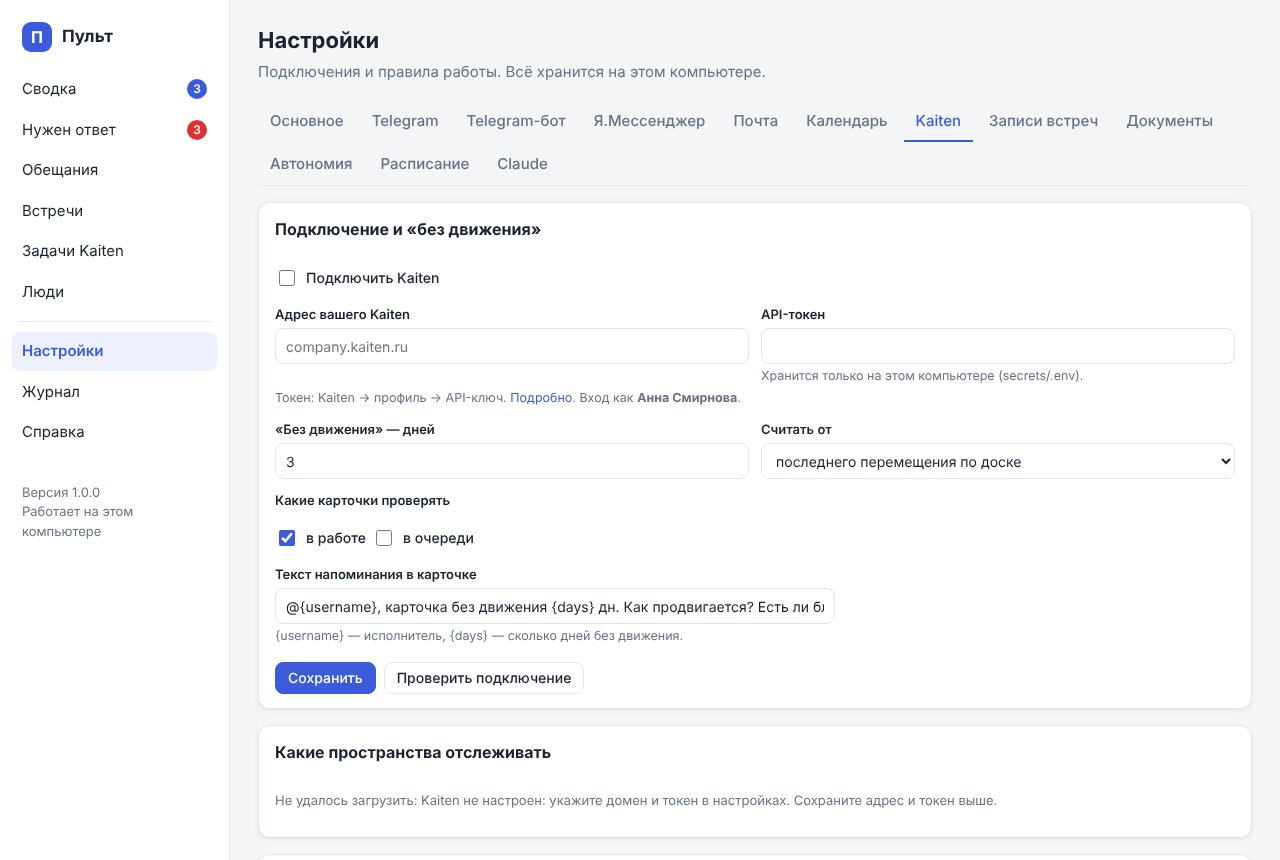
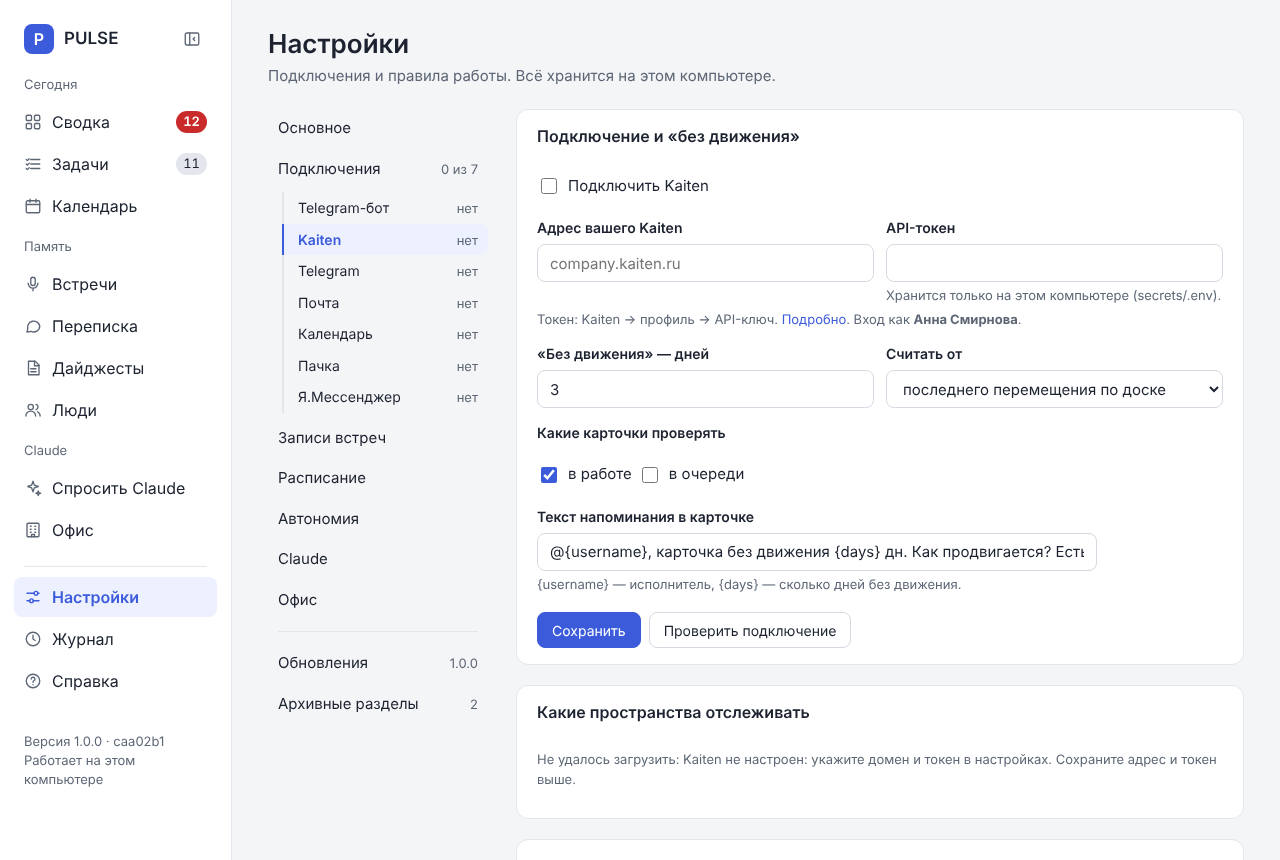
Дизайн 2.0, шаг 12: тёмная тема, телефон, приёмка, история изменений
Прошёл все экраны в тёмной теме, на 1280px и на телефоне: горизонтальной
прокрутки нет (переключатели видов на телефоне листаются вбок). По
чек-листу приёмки: зелёных кнопок не осталось («Да» в предложениях и
«Принять» — основные), у всех полей времени lang="ru", мелкий текст
календаря и уведомлений — не меньше 12px.

Окно «У PULSE новый дизайн» теперь говорит, что куда переехало: ответы — в
ленту Сводки, чаты — в «Переписку», Kaiten — во вкладку «Задач»,
Документы и База знаний — в архив. Запись в историю изменений;
скриншоты в README и справке пересняты в новом дизайне.

Claude-Session: https://claude.ai/code/session_012TtepoiuT4bpZH8BT6hsDJ

diff --git a/opsdash/web/static/style.css b/opsdash/web/static/style.css
@@ -425,7 +425,7 @@ button.chip:hover { border-color: var(--accent); color: var(--text); }
 /* Claude думает, что задача выполнена: доводы и кнопки «Да, закрыть / Нет» в окне задачи */
 .prop-links { display: flex; flex-wrap: wrap; gap: 6px; margin-top: 6px; }
 .btn.toggle.on { border-color: var(--accent); background: var(--accent-soft); color: var(--accent); }
-.btn .badge { height: 18px; min-width: 18px; margin-left: 2px; font-size: 11px; }
+.btn .badge { height: 18px; min-width: 18px; margin-left: 2px; font-size: 12px; }
 /* переход по ссылке на задачу — карточка ненадолго подсвечивается */
 .flash { animation: flash 1.8s ease-out 1; }
 @keyframes flash { 0%, 45% { box-shadow: 0 0 0 4px color-mix(in srgb, var(--accent) 50%, transparent); } }
@@ -577,16 +577,16 @@ body.resizing { cursor: col-resize; user-select: none; }
 .wk-head, .wk-allday, .wk-body { display: grid; grid-template-columns: var(--gutter) repeat(7, minmax(0, 1fr)); }
 .wk-head { position: sticky; top: 0; z-index: 3; background: var(--panel); border-bottom: 1px solid var(--line); border-radius: var(--radius) var(--radius) 0 0; }
 .wk-day-h { text-align: center; padding: 10px 0 8px; }
-.wk-dow { font-size: 11px; font-weight: 600; color: var(--muted); letter-spacing: .04em; }
+.wk-dow { font-size: 12px; font-weight: 600; color: var(--muted); letter-spacing: .04em; }
 .wk-num { font-size: 24px; line-height: 40px; width: 40px; height: 40px; margin: 2px auto 0; border-radius: 50%; }
 .wk-day-h.today .wk-dow { color: var(--accent); }
 .wk-day-h.today .wk-num { background: var(--accent); color: #fff; }
 .wk-allday { grid-auto-rows: 22px; row-gap: 2px; padding: 4px 0; border-bottom: 1px solid var(--line); }
-.wk-allday-label { font-size: 11px; color: var(--muted); text-align: right; padding-right: 8px; align-self: center; }
+.wk-allday-label { font-size: 12px; color: var(--muted); text-align: right; padding-right: 8px; align-self: center; }
 .wk-body { position: relative; padding-top: 8px; }
 .wk-hours { position: relative; }
 .wk-hour { height: var(--hour); position: relative; }
-.wk-hour span { position: absolute; top: -8px; right: 8px; font-size: 11px; color: var(--muted); }
+.wk-hour span { position: absolute; top: -8px; right: 8px; font-size: 12px; color: var(--muted); }
 .wk-col { position: relative; border-left: 1px solid var(--line); cursor: copy;
   background-image: repeating-linear-gradient(to bottom, var(--line) 0 1px, transparent 1px var(--hour)); }
 .wk-col.today { background-color: color-mix(in srgb, var(--accent) 4%, transparent); }
@@ -616,7 +616,7 @@ body.resizing { cursor: col-resize; user-select: none; }
 .day-now { position: absolute; left: 0; right: 0; height: 0; border-top: 2px dashed var(--accent); z-index: 3; pointer-events: none; }
 .day-now::before { content: ""; position: absolute; left: -6px; top: -6px; width: 10px; height: 10px; border-radius: 50%; background: var(--accent); }
 .day-now span { position: absolute; right: calc(100% + 7px); top: -10px; padding: 0 3px; border-radius: 4px; background: var(--panel);
-  color: var(--accent); font-size: 11px; font-weight: 600; line-height: 18px; font-variant-numeric: tabular-nums; }
+  color: var(--accent); font-size: 12px; font-weight: 600; line-height: 18px; font-variant-numeric: tabular-nums; }
 .ev-pop { position: fixed; z-index: 20; width: 340px; max-width: calc(100vw - 24px); padding: 14px 16px; display: grid; gap: 6px;
   background: var(--panel); border: 1px solid var(--line); border-radius: var(--radius); box-shadow: 0 8px 28px rgba(0, 0, 0, .28); }
 .ev-pop[hidden] { display: none; }
@@ -680,7 +680,7 @@ button.chip.ok { cursor: pointer; }
 .usage-days { display: flex; align-items: flex-end; gap: 4px; height: 90px; margin: 4px 0 12px; }
 .usage-day { flex: 1; height: 100%; display: flex; flex-direction: column; justify-content: flex-end; align-items: center; gap: 3px; }
 .usage-bar { width: 100%; max-width: 28px; background: var(--accent); border-radius: 3px 3px 0 0; opacity: .8; }
-.usage-day span { font-size: 10px; color: var(--muted); }
+.usage-day span { font-size: 12px; color: var(--muted); }
 @media (max-width: 760px) { .usage-tiles { grid-template-columns: repeat(2, minmax(0, 1fr)); } }
 
 /* --- угол экрана: что PULSE делает сейчас и что сделал (opsdash.notices) --- */
@@ -711,7 +711,7 @@ button.chip.ok { cursor: pointer; }
 .notice-t { display: block; font-weight: 600; color: var(--text); line-height: 1.35; }
 a.notice-t:hover { color: var(--accent); text-decoration: none; }
 .notice-x { margin-top: 2px; font-size: 12px; color: var(--muted); line-height: 1.4; overflow-wrap: anywhere; }
-.notice-time { margin-top: 3px; font-size: 11px; color: var(--muted); }
+.notice-time { margin-top: 3px; font-size: 12px; color: var(--muted); }
 .notice-close { border: 0; background: none; color: var(--muted); cursor: pointer; padding: 0 2px; font-size: 12px; line-height: 1.4; }
 .notice-close:hover { color: var(--text); }
 .notice-head { display: flex; justify-content: flex-end; }  /* «Скрыть все» — справа над крестиком верхнего */
@@ -946,7 +946,7 @@ a.notice-now-t:hover { color: var(--accent); text-decoration: none; }
 .dlg-item-text { flex: 1; overflow-wrap: anywhere; }
 
 /* окно «У PULSE новый дизайн» (один раз после обновления): картинка с пульсом и конфетти, цвета — из темы */
-.dlg-hello { width: min(440px, calc(100vw - 32px)); }
+.dlg-hello { width: min(480px, calc(100vw - 32px)); }
 .hello-box { padding: 26px 28px 24px; display: grid; justify-items: center; gap: 10px; text-align: center; outline: none; }
 .hello-box h2 { font-size: 21px; line-height: 1.3; }
 .hello-box p { margin: 0; }
@@ -1380,7 +1380,7 @@ a.mrow-title:hover { color: var(--accent); text-decoration: none; }
 .wk-now { background: var(--accent); }
 .wk-now::before { background: var(--accent); }
 .wk-now span { position: absolute; right: calc(100% + 6px); top: -9px; padding: 0 3px; border-radius: 4px; background: var(--panel);
-  color: var(--accent); font-size: 11px; font-weight: 600; line-height: 18px; font-variant-numeric: tabular-nums; }
+  color: var(--accent); font-size: 12px; font-weight: 600; line-height: 18px; font-variant-numeric: tabular-nums; }
 .wk-now-all { position: absolute; left: var(--gutter); right: 0; height: 0; border-top: 1px solid color-mix(in srgb, var(--accent) 35%, transparent); z-index: 1; pointer-events: none; }
 .ev-t { white-space: nowrap; overflow: hidden; text-overflow: ellipsis; }
 .ev.past { opacity: .6; }
@@ -1563,3 +1563,8 @@ a.mrow-title:hover { color: var(--accent); text-decoration: none; }
 .copy-code { position: absolute; top: 6px; right: 6px; }
 .help-hit { margin: 0 0 10px; font-size: 15px; }
 .help-page .subnav-sub > a { white-space: normal; }
+@media (max-width: 760px) {
+  .seg { max-width: 100%; overflow-x: auto; scrollbar-width: none; }
+  .tb-search.wide { width: 100% !important; }
+}
+.hello-list { margin: 0; padding-left: 20px; text-align: left; font-size: 14px; color: var(--muted); display: grid; gap: 4px; }

diff --git a/opsdash/web/templates/settings.html b/opsdash/web/templates/settings.html
@@ -216,8 +216,8 @@
     {{ enabled_box('telegram_bot', 'Бот включён') }}
     <label>Токен бота от @BotFather</label>{{ secret_input('token', 'TELEGRAM_BOT_TOKEN', '123456:ABC-DEF…') }}
     <div class="form-row">
-      <div><label>Тихие часы с</label><input type="time" name="quiet_start" value="{{ settings.telegram_bot.quiet_hours.start | hhmm }}"></div>
-      <div><label>до</label><input type="time" name="quiet_end" value="{{ settings.telegram_bot.quiet_hours.end | hhmm }}"></div>
+      <div><label>Тихие часы с</label><input type="time" lang="ru" name="quiet_start" value="{{ settings.telegram_bot.quiet_hours.start | hhmm }}"></div>
+      <div><label>до</label><input type="time" lang="ru" name="quiet_end" value="{{ settings.telegram_bot.quiet_hours.end | hhmm }}"></div>
     </div>
     <div class="hint">В тихие часы приходят только срочные сообщения, остальное — утром.</div>
     <div class="form-actions"><button class="btn primary">Сохранить</button> {{ check_btn('bot') }}</div>
@@ -520,12 +520,12 @@
       <div><label>Обновлять календарь, каждые … мин</label><input type="number" name="calendar_minutes" value="{{ settings.schedule.calendar_minutes }}" min="10"></div>
     </div>
     <div class="form-row">
-      <div><label>Утренний дайджест</label><input type="time" name="digest_morning" value="{{ settings.schedule.digest_morning | hhmm }}"></div>
-      <div><label>Вечерний дайджест</label><input type="time" name="digest_evening" value="{{ settings.schedule.digest_evening | hhmm }}"></div>
-      <div><label>Напоминание о задачах без движения</label><input type="time" name="stale_check" value="{{ settings.schedule.stale_check | hhmm }}"></div>
-      <div><label>База знаний: обзор недели, по пятницам</label><input type="time" name="anthology_weekly" value="{{ settings.schedule.anthology_weekly | hhmm }}"><div class="hint">Пусто — не делать.</div></div>
-      <div><label>Сводка «О компании» для Claude, по понедельникам</label><input type="time" name="context_weekly" value="{{ settings.schedule.context_weekly | hhmm }}"><div class="hint">Пусто — не обновлять.</div></div>
-      <div><label>Сборка проектов, по понедельникам</label><input type="time" name="projects_weekly" value="{{ settings.schedule.projects_weekly | hhmm }}"><div class="hint">Claude предложит проекты, связи «ждёт» и объединение дублей. Пусто — только по кнопке в «Задачи → Проекты».</div></div>
+      <div><label>Утренний дайджест</label><input type="time" lang="ru" name="digest_morning" value="{{ settings.schedule.digest_morning | hhmm }}"></div>
+      <div><label>Вечерний дайджест</label><input type="time" lang="ru" name="digest_evening" value="{{ settings.schedule.digest_evening | hhmm }}"></div>
+      <div><label>Напоминание о задачах без движения</label><input type="time" lang="ru" name="stale_check" value="{{ settings.schedule.stale_check | hhmm }}"></div>
+      <div><label>База знаний: обзор недели, по пятницам</label><input type="time" lang="ru" name="anthology_weekly" value="{{ settings.schedule.anthology_weekly | hhmm }}"><div class="hint">Пусто — не делать.</div></div>
+      <div><label>Сводка «О компании» для Claude, по понедельникам</label><input type="time" lang="ru" name="context_weekly" value="{{ settings.schedule.context_weekly | hhmm }}"><div class="hint">Пусто — не обновлять.</div></div>
+      <div><label>Сборка проектов, по понедельникам</label><input type="time" lang="ru" name="projects_weekly" value="{{ settings.schedule.projects_weekly | hhmm }}"><div class="hint">Claude предложит проекты, связи «ждёт» и объединение дублей. Пусто — только по кнопке в «Задачи → Проекты».</div></div>
     </div>
     <div class="hint">Пустое время — не отправлять. Если компьютер был выключен, дайджест придёт после включения (в пределах 4 часов).</div>
     <label class="check"><input type="checkbox" name="meeting_processed" {{ 'checked' if settings.notifications.meeting_processed }}> Присылать итог каждой разобранной встречи</label>
@@ -544,8 +544,8 @@
     </div>
     <div class="form-row">
       <div><label>Итоги недели: день</label><select name="weekly_day">{% for d in range(1, 8) %}<option value="{{ d }}" {{ 'selected' if settings.schedule.weekly_day == d }}>{{ ['понедельник', 'вторник', 'среда', 'четверг', 'пятница', 'суббота', 'воскресенье'][d - 1] }}</option>{% endfor %}</select></div>
-      <div><label>Итоги недели: время</label><input type="time" name="weekly_time" value="{{ settings.schedule.weekly_time | hhmm }}"><div class="hint">Компьютер был выключен — придут при следующем запуске. Пусто — не делать.</div></div>
-      <div><label>Сводка рабочих групп Telegram</label><input type="time" name="groups_digest" value="{{ settings.schedule.groups_digest | hhmm }}"><div class="hint">По рабочим дням. Пусто — не делать.</div></div>
+      <div><label>Итоги недели: время</label><input type="time" lang="ru" name="weekly_time" value="{{ settings.schedule.weekly_time | hhmm }}"><div class="hint">Компьютер был выключен — придут при следующем запуске. Пусто — не делать.</div></div>
+      <div><label>Сводка рабочих групп Telegram</label><input type="time" lang="ru" name="groups_digest" value="{{ settings.schedule.groups_digest | hhmm }}"><div class="hint">По рабочим дням. Пусто — не делать.</div></div>
     </div>
     <label class="check"><input type="checkbox" name="groups_to_telegram" {{ 'checked' if settings.notifications.groups_digest }}> Присылать сводку групп в Telegram (в разделе «Дайджесты» она есть всегда)</label>
     <label>Текст напоминания коллеге</label>

diff --git a/opsdash/web/templates/_macros.html b/opsdash/web/templates/_macros.html
@@ -10,7 +10,7 @@
       {% if refs %}<div class="prop-links">{% for label, url in refs %}<a class="btn sm ghost" href="{{ url }}"{% if url.startswith('http') %} target="_blank" rel="noopener"{% endif %}>{{ label }} {{ '↗' if url.startswith('http') else '→' }}</a>{% endfor %}</div>{% endif %}
     </div>
     <div class="actions">
-      <form class="inline" method="post" action="/proposals/{{ p.id }}/approve"><button class="btn sm ok" title="Выполнить">Да</button></form>
+      <form class="inline" method="post" action="/proposals/{{ p.id }}/approve"><button class="btn sm primary" title="Выполнить">Да</button></form>
       <form class="inline" method="post" action="/proposals/{{ p.id }}/reject"><button class="btn sm" title="Отклонить">Нет</button></form>
     </div>
   </div>
@@ -35,7 +35,7 @@
     <div><b>Похоже, вы уже ответили.</b> {{ h.reason }}</div>
     {% if h.payload.quote %}<div class="dlg-quote">«{{ h.payload.quote }}»</div>{% endif %}
     <div class="actions">
-      <form class="inline" method="post" action="/proposals/{{ h.id }}/approve"><button class="btn sm ok">Да, убрать</button></form>
+      <form class="inline" method="post" action="/proposals/{{ h.id }}/approve"><button class="btn sm">Да, убрать</button></form>
       <form class="inline" method="post" action="/proposals/{{ h.id }}/reject"><button class="btn sm">Нет, ещё не ответила</button></form>
       {% for label, url in proposal_links(h) if label != 'Нужен ответ' %}<a class="btn sm ghost" href="{{ url }}"{% if url.startswith('http') %} target="_blank" rel="noopener"{% endif %}>{{ label }} {{ '↗' if url.startswith('http') else '→' }}</a>{% endfor %}
     </div>
@@ -235,7 +235,7 @@
     <div><b>Claude предлагает:</b> {{ h.title }}</div>
     {% if h.reason %}<div class="small muted">{{ h.reason }}</div>{% endif %}
     <div class="actions">
-      <form class="inline" method="post" action="/proposals/{{ h.id }}/approve"><button class="btn sm ok">Да, ждёт</button></form>
+      <form class="inline" method="post" action="/proposals/{{ h.id }}/approve"><button class="btn sm primary">Да, ждёт</button></form>
       <form class="inline" method="post" action="/proposals/{{ h.id }}/reject"><button class="btn sm">Нет</button></form>
     </div>
   </div>

diff --git a/opsdash/web/templates/_design_intro.html b/opsdash/web/templates/_design_intro.html
@@ -27,7 +27,12 @@
       <g transform="translate(144 141)"><circle class="cf c1" style="--d:.5s" r="2.5"/></g>
     </svg>
     <h2 id="hello-title">У PULSE новый дизайн</h2>
-    <p>Разделы, задачи и данные — на своих местах, поменялся внешний вид.</p>
+    <p>Всё, что ждёт вашего решения, — теперь одной лентой на Сводке. Меню стало короче:</p>
+    <ul class="hello-list">
+      <li>«Нужен ответ» — в ленте Сводки, чаты — в «Переписке»</li>
+      <li>«Задачи Kaiten» — вкладка в «Задачах»</li>
+      <li>Документы и База знаний — в архиве; вернуть — Настройки → Архивные разделы</li>
+    </ul>
     <p class="hello-note"><i>Если что-то не понравилось или есть идея, как сделать лучше, — просто напишите мне.</i></p>
     <button class="btn primary hello-ok" autofocus>Круто</button>
   </form>

diff --git a/opsdash/web/templates/kb.html b/opsdash/web/templates/kb.html
@@ -25,7 +25,7 @@
     </span>
     <span class="actions">
       {% if r.status == 'proposed' %}
-      <form class="inline" method="post" action="/kb/{{ r.id }}"><input type="hidden" name="status" value="accepted"><button class="btn sm ok">Принять</button></form>
+      <form class="inline" method="post" action="/kb/{{ r.id }}"><input type="hidden" name="status" value="accepted"><button class="btn sm primary">Принять</button></form>
       <form class="inline" method="post" action="/kb/{{ r.id }}"><input type="hidden" name="status" value="rejected"><button class="btn sm ghost">Отклонить</button></form>
       {% elif r.status == 'accepted' %}
       <form class="inline" method="post" action="/kb/{{ r.id }}" data-confirm="Отметить как устаревшее? Запись останется в истории, но Claude не будет на неё опираться."><input type="hidden" name="status" value="outdated"><button class="btn sm ghost" title="Решение пересмотрели или оно больше не действует">Устарело</button></form>

diff --git a/docs/06-история-изменений.md b/docs/06-история-изменений.md
@@ -3,6 +3,33 @@
 Что менялось в PULSE — новое сверху. Поставить новую версию: Настройки → Основное →
 «Обновления PULSE» → «Обновить».
 
+## 02.11.2026 — PULSE 2.0: новый дизайн
+
+- **Спокойнее и короче.** Тот же индиго-акцент и шрифт, но меньше жирного, меньше рамок и цветных плашек.
+  Синий — только то, на что можно нажать; красный — просрочка; оранжевый — «скоро» и «без движения»;
+  зелёный — «сделано». После обновления PULSE один раз покажет окно «У PULSE новый дизайн».
+- **Меню сгруппировано:** «Сегодня» (Сводка, Задачи, Календарь), «Память» (Встречи, Переписка, Дайджесты,
+  Люди), «Claude» (Спросить Claude, Офис). На телефоне — нижняя панель «Сводка · Задачи · Календарь · Ещё».
+- **Сводка — одна лента «Нужно от вас»:** подтвердить, ответить, напомнить — одним списком, срочное сверху,
+  с фильтрами по типу. У ответа — черновик и «Копировать», у напоминания — готовый текст. Справа — день часовой
+  сеткой и «Пока вас не было». Плитки с цифрами, «Мои задачи», «Мне должны» и «Источники» со Сводки ушли:
+  источники и состояние Claude — в Настройки → Подключения.
+- **«Нужен ответ» → «Переписка».** Ответы — в ленте Сводки, а «Переписка» показывает сами чаты: слева список,
+  справа выбранный чат; то, что PULSE вынес в Сводку, подсвечено. Старые ссылки из бота ведут туда же.
+- **Задачи:** карточка на доске — две строки (название и «человек · срок» словами: «завтра», «просрочено 2 дня»),
+  клик раскрывает её на месте. Окно задачи — со статусом списком (Новая / В работе / Ждёт / Готово), связями
+  «ждёт» и «её ждёт» и меню «…» для редких действий. Колонка «Готово» — по кнопке под доской. Все фильтры —
+  в «Фильтр», активные видны под заголовком с «× снять». «Задачи Kaiten» стали вкладкой «Kaiten» в «Задачах».
+- **Документы и База знаний — в архиве:** их нет в меню, их задания не запускаются, данные не удалены.
+  Вернуть — Настройки → Архивные разделы → «Включить».
+- **Встречи** — лентой по дням, со встречами календаря без записи; на странице встречи — вкладки «Разбор ·
+  Расшифровка · Запись» и справа «Ждут вашего «да»».
+- **Календарь** — неделя, новый вид «Месяц» и список; встреча открывается карточкой: участники, запись, задачи.
+- **Люди** — таблица «кто кому должен», карточка человека — окном. **Дайджесты** — список слева, текст справа,
+  «Отправить ещё раз». **Журнал** — события по дням (сюда переехала «Лента бота») и задания с «Запустить».
+- **Настройки** — подменю слева вместо вкладок; «Обновления» — отдельным пунктом. «Рассуждение» для
+  «Спросить Claude» — в Настройки → Claude. **Спросить Claude** — можно спросить и о чате, и о человеке.
+
 ## 30.10.2026
 
 - **Windows: установка одной строкой.** В PowerShell вставляется одна строка — PULSE сам скачивается
